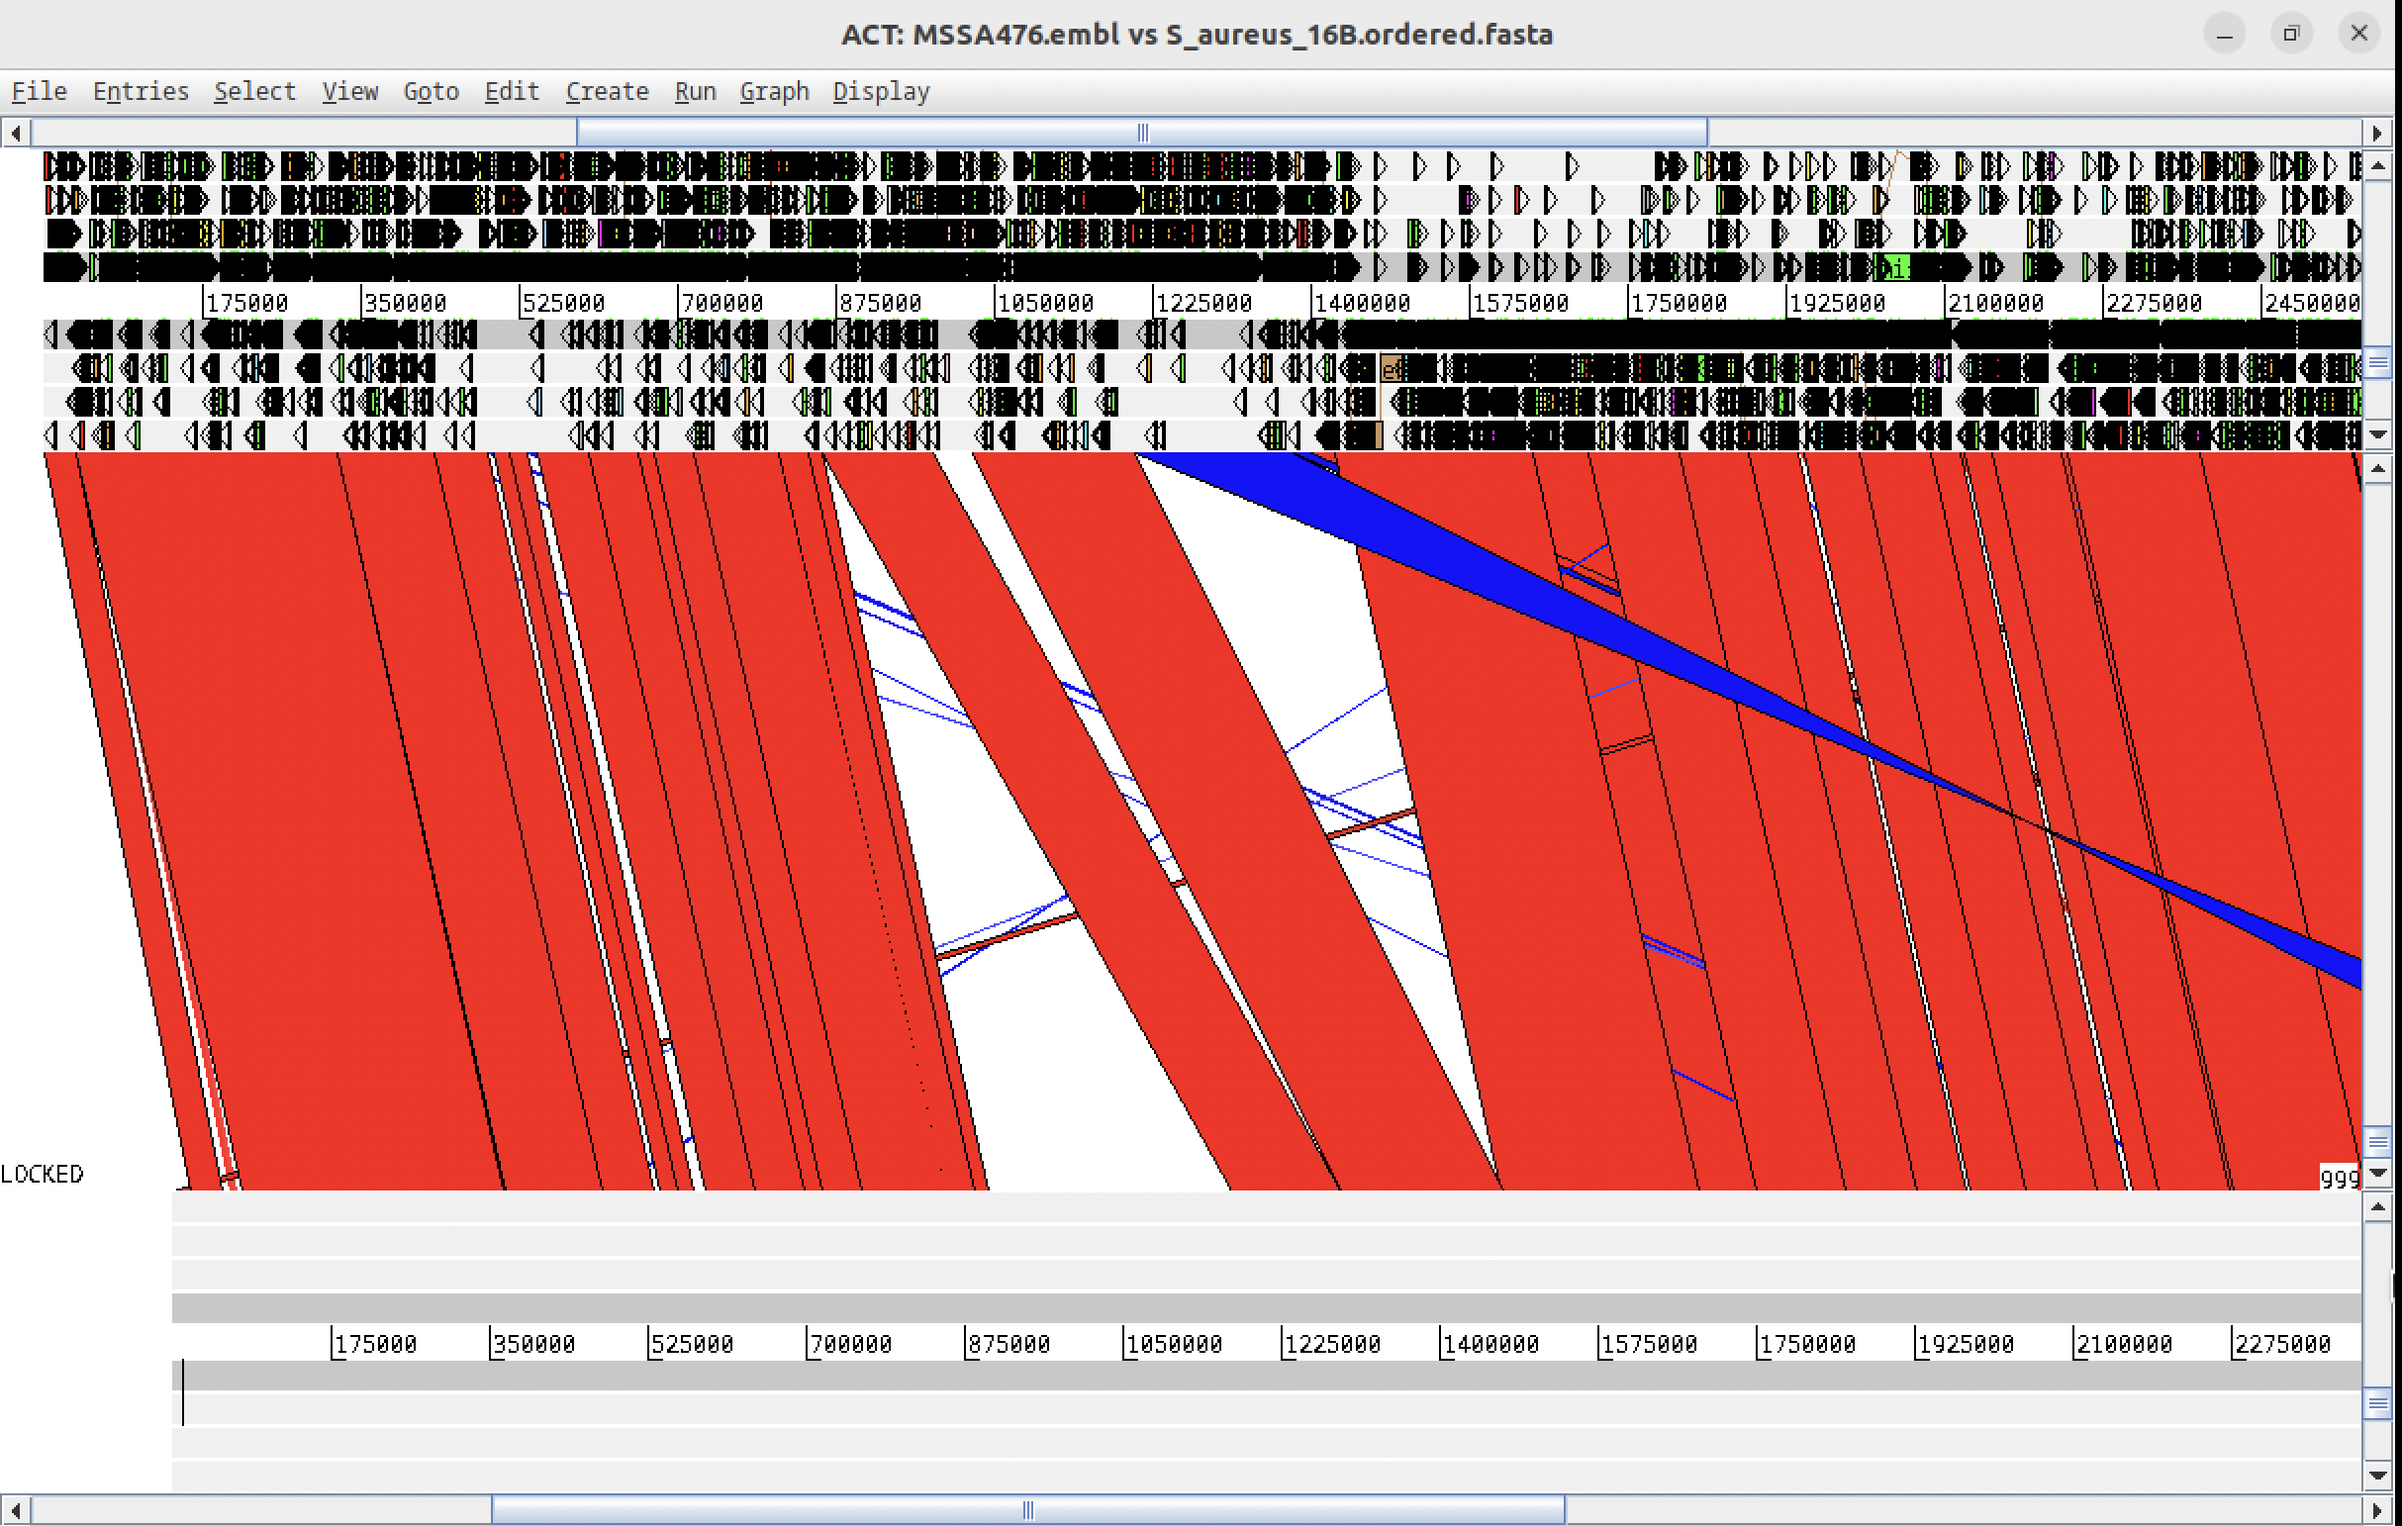
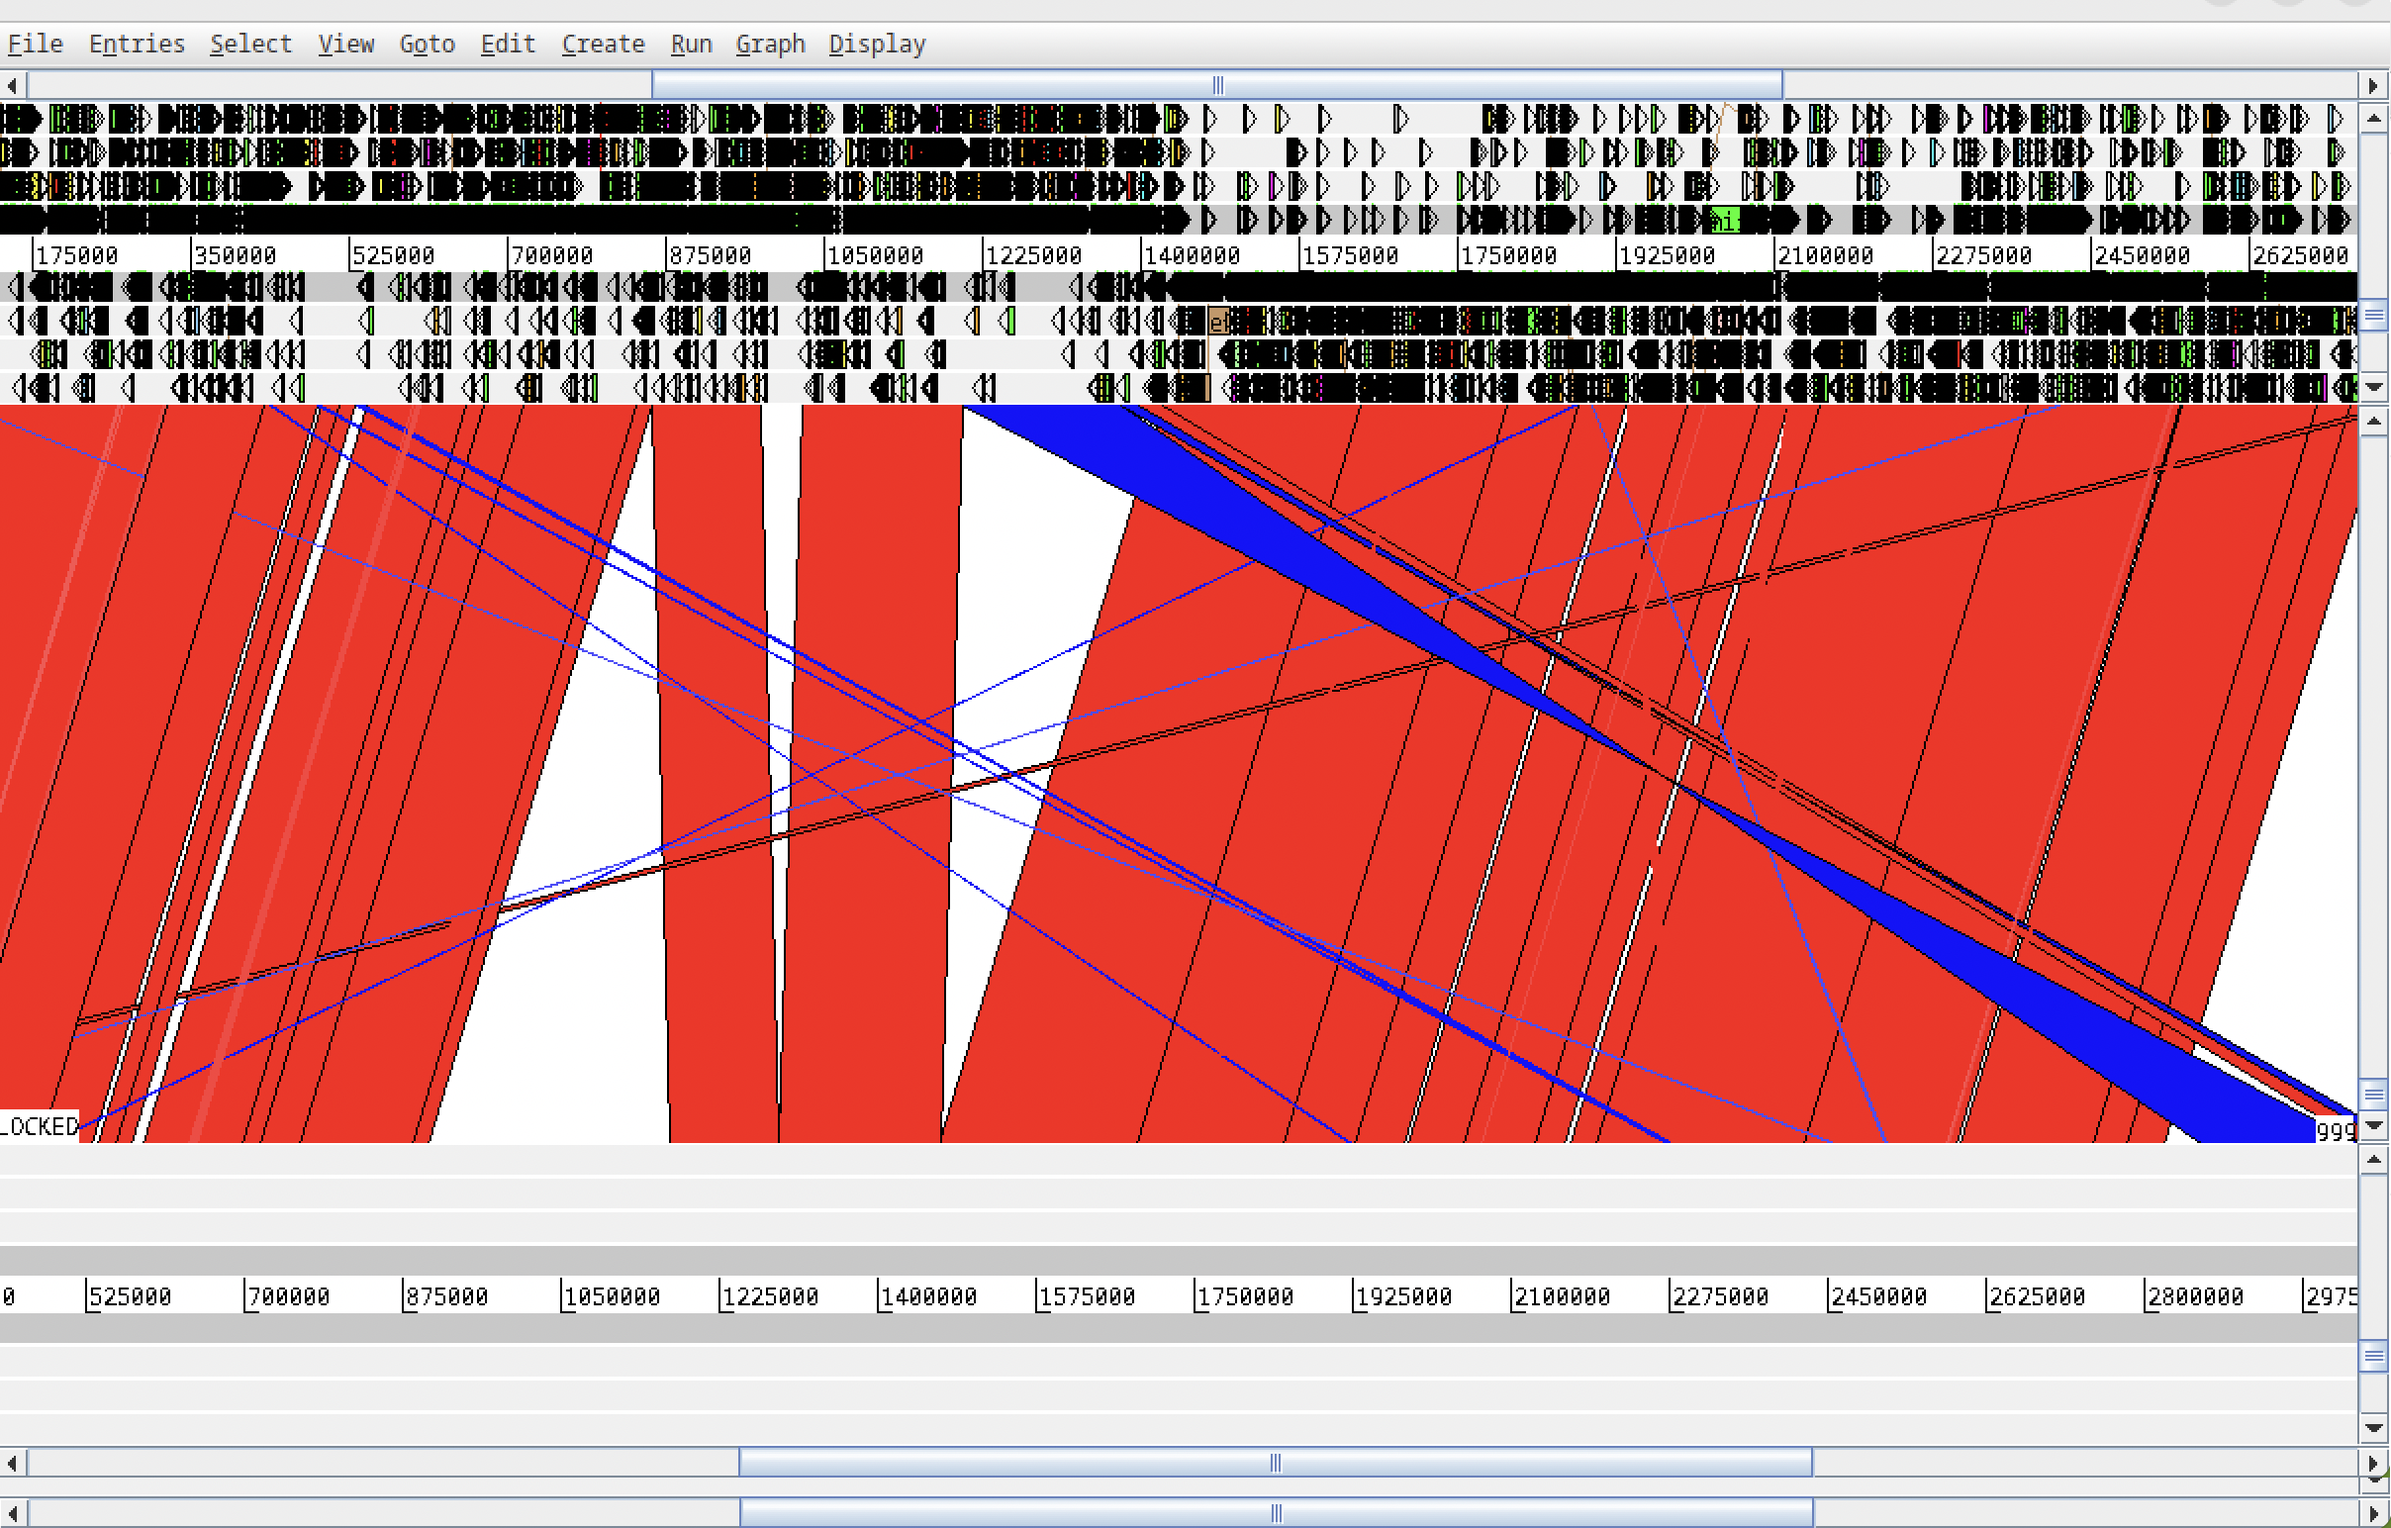
Updates to Genome_Assembly_Annotation.md - Up to Step 12

diff --git a/Manuals/Genome_Assembly_Annotation/Genome_Assembly_Annotation.md b/Manuals/Genome_Assembly_Annotation/Genome_Assembly_Annotation.md
@@ -31,7 +31,7 @@
 - [Investigating genomic composition](#investigating-genomic-composition)
   - [Step 9. Ordering the assembly against a reference genome using `abacas`](#step-9-ordering-the-assembly-against-a-reference-genome-using-abacas)
   - [Step 10. Identify highly similar regions using `blastn`](#step-10-identify-highly-similar-regions-using-blastn)
-  - [Step 11.](#step-11)
+  - [Step 11. Explore local genomeic matches in `act`](#step-11-explore-local-genomeic-matches-in-act)
   - [Step 12. Mapping reads back to the ordered assembly using `snippy`](#step-12-mapping-reads-back-to-the-ordered-assembly-using-snippy)
 - [Generating the genome annotation](#generating-the-genome-annotation)
   - [Step 13.  `bakta`](#step-13--bakta)
@@ -743,14 +743,27 @@ blastn -query S_aureus_16B.ordered.fasta -db MSSA476 -out MSSA476.dna_vs_16B.ord
 
 <br>
 
-## Step 11. 
+## Step 11. Explore local genomeic matches in `act`
 
 We are now going to look at the `abacus` ordered 16B assembly in `act` with the `blastn` comparison file we have just generated.
 
 
-At the prompt type and return the command line:
+We will run `act` with the following parameters:
+
+- Specify the annotation file for the reference genome used (MSSA476):
+  - `MSSA476.embl`
+- The blastn result containing hits between MSSA476 and 16B
+  - `MSSA476.dna_vs_16B.ordered.fasta.tsv`
+- The ordered genomic assembly for 16B
+  - `16B.ordered.fasta`
 
 <br>
+
+*******CHANGE ALL S_aureus.16B.ordered.fasta to 16B.ordered.fasta*******
+*******CHANGE ALL S_aureus.16B.ordered.fasta to 16B.ordered.fasta*******
+*******CHANGE ALL S_aureus.16B.ordered.fasta to 16B.ordered.fasta*******
+*******CHANGE ALL S_aureus.16B.ordered.fasta to 16B.ordered.fasta*******
+*******CHANGE ALL S_aureus.16B.ordered.fasta to 16B.ordered.fasta*******
 
 ```bash
 act MSSA476.embl MSSA476.dna_vs_16B.ordered.fasta.tsv 16B.ordered.fasta &
@@ -764,8 +777,6 @@ act MSSA476.embl MSSA476.dna_vs_16B.ordered.fasta.tsv 16B.ordered.fasta &
 
 <br>
 
-
-
 Once the `act` window loads up, open `16B.ordered.tab` file into the `16B.ordered.fasta` entry by going to the *File* menu, and selecting the *16B.ordered.fasta* option, and right clicking onto the *Read An Entry* option. 
 
 Once ACT has opened, zoom out so you can see the whole of the sequences (you may have to re-size the ACT window) and reduce the size of the BLASTN footprint that is displayed, by moving the slider on the right-hand side of the comparison window down to the bottom of the bar.
@@ -773,12 +784,21 @@ Once ACT has opened, zoom out so you can see the whole of the sequences (you may
 As before, display the GC Deviation (G-C)/(G+C) plots for both of the sequences (under the Graph menu there will be two sequences, top and bottom sequences, click on each to open the graphs for each). Remember to rescale the plot for a more appropriate window size (use 20000 as before, then move the graph slider of the right hand side of the screen down to the bottom of the bar).
 
 
-![ACT zoomed out](ACT_zoomed_out.png)
+<br>
 
+<p align="center">
+    <img src="images/ACT_gc.png" alt="ACT_gc" style="width:80%">
+</p>
+
+<br>
 
 In the `act` figure there are several regions of interest that are worth investing. The first region we are going to look at is the inverted region in the centre of the assembly that is covered by the hourglass shaped blue matches in the comparison panel. This 130 kb region spans the terminus of replication region, and is present at one end of a contig. At the other end of the putative inverted region there is a contig break. 
 
-![ACT focus region](ACT_focus_region.png)
+<br>
+
+<p align="center">
+    <img src="images/ACT_focus.png" alt="ACT_focus" style="width:80%">  
+</p>
 
 <br>
 
